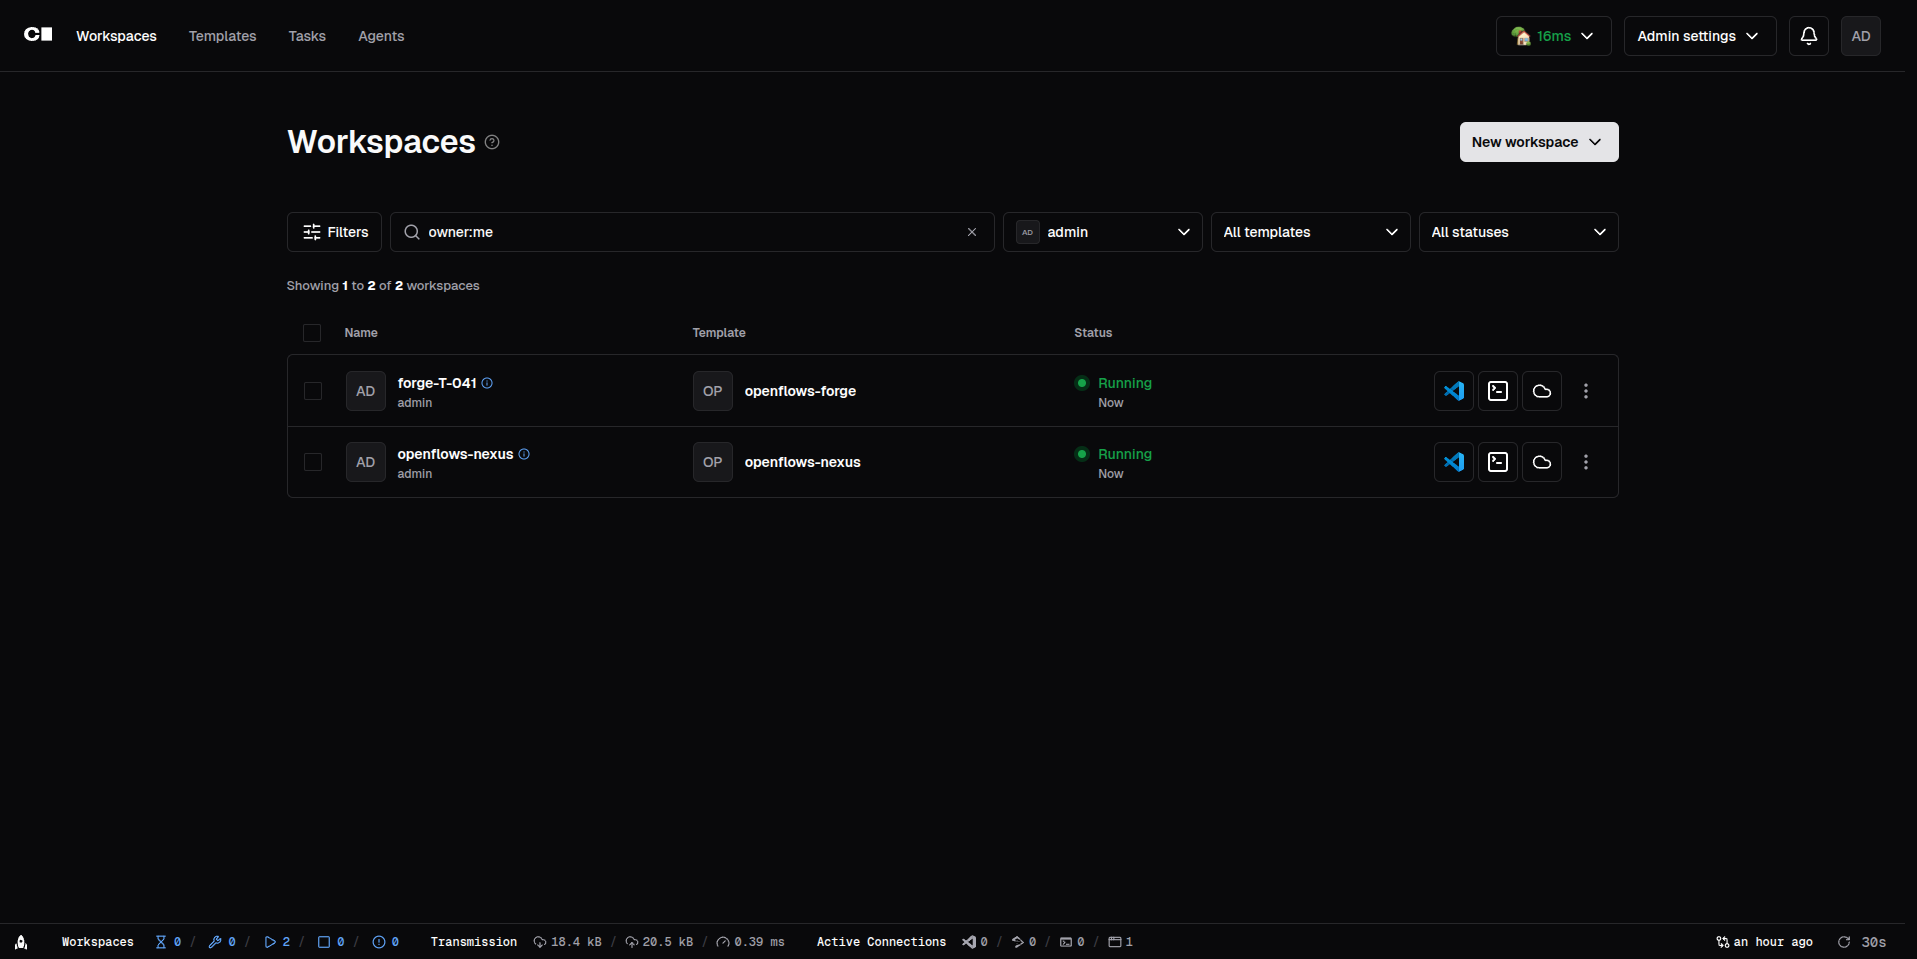
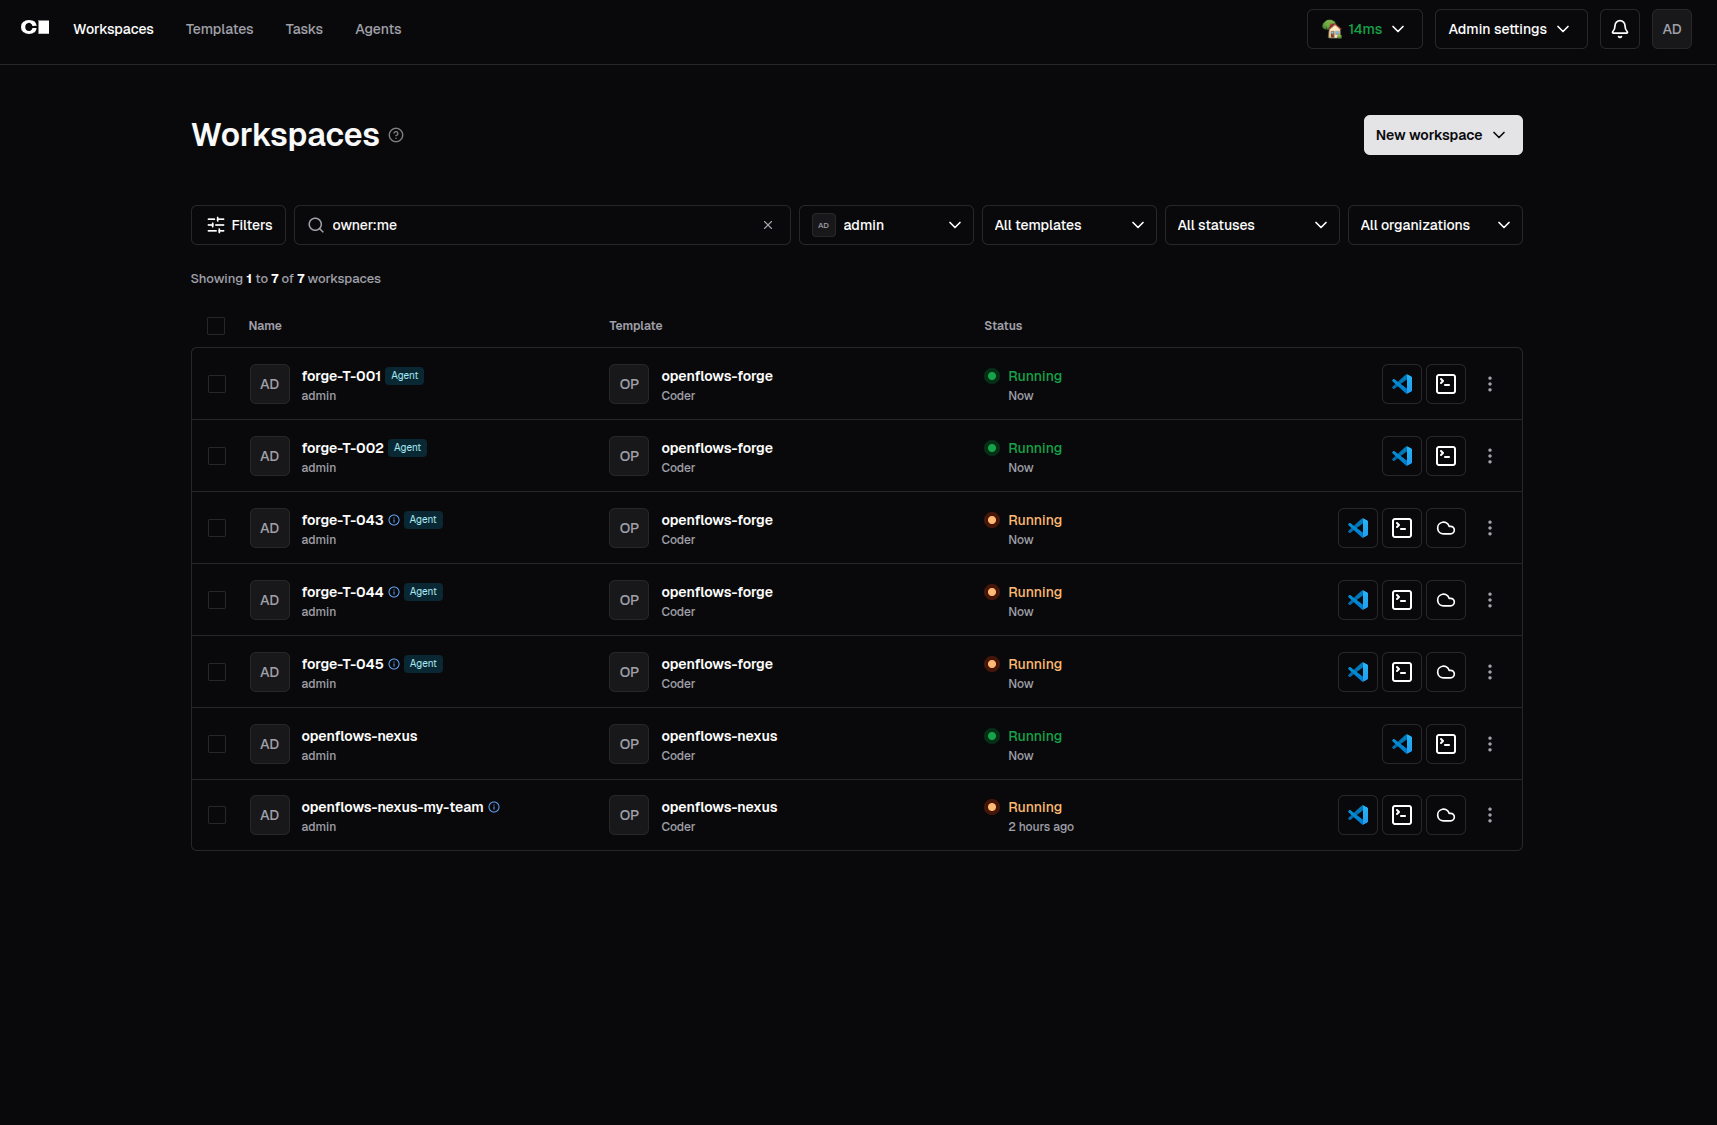
sidebar hacks

diff --git a/src/organisms/FeatureSteps/FeatureSteps.module.css b/src/organisms/FeatureSteps/FeatureSteps.module.css
@@ -1,7 +1,45 @@
 /* FeatureSteps - Coder.com numbered accordion */
 .section {
+  position: relative;
   padding-block: 120px;
   background: var(--color-parchment-canvas);
+}
+
+/* Side hatch decorations */
+.section::before,
+.section::after {
+  content: '';
+  position: absolute;
+  top: 0;
+  bottom: 0;
+  width: 24px;
+  background-color: #f8f7f3;
+  background-image: repeating-linear-gradient(
+    45deg,
+    #dcd7d3b3 0 1px,
+    #0000 1px 5px
+  );
+  pointer-events: none;
+  z-index: 1;
+}
+
+.section::before {
+  left: 0;
+}
+
+.section::after {
+  right: 0;
+}
+
+@media (max-width: 900px) {
+  .section {
+    padding-block: 80px;
+  }
+  
+  .section::before,
+  .section::after {
+    width: 16px;
+  }
 }
 
 .container {
@@ -40,7 +78,12 @@
   border-radius: var(--radius-xl);
   overflow: hidden;
   border: 1px solid var(--color-driftwood);
-  background: var(--color-fog);
+  background-color: #f8f7f3;
+  background-image: repeating-linear-gradient(
+    45deg,
+    #dcd7d3b3 0 1px,
+    #0000 1px 5px
+  );
   margin-inline: auto;
 }
 
@@ -49,10 +92,4 @@
   height: auto;
   display: block;
   object-fit: contain;
-}
-
-@media (max-width: 900px) {
-  .section {
-    padding-block: 80px;
-  }
 }

diff --git a/src/organisms/TrustBar/TrustBar.module.css b/src/organisms/TrustBar/TrustBar.module.css
@@ -1,9 +1,48 @@
-/* TrustBar - IZHUB: white bg to match nav treatment */
+/* TrustBar - IZHUB: hatch pattern background */
 .section {
+  position: relative;
   padding-block: 48px;
   border-top: 1px solid var(--color-fog);
   border-bottom: 1px solid var(--color-fog);
-  background: var(--color-bone);
+  background-color: #f8f7f3;
+  background-image: repeating-linear-gradient(
+    45deg,
+    #dcd7d3b3 0 1px,
+    #0000 1px 5px
+  );
+}
+
+/* Side hatch decorations */
+.section::before,
+.section::after {
+  content: '';
+  position: absolute;
+  top: 0;
+  bottom: 0;
+  width: 24px;
+  background-color: #f8f7f3;
+  background-image: repeating-linear-gradient(
+    45deg,
+    #dcd7d3b3 0 1px,
+    #0000 1px 5px
+  );
+  pointer-events: none;
+  z-index: 1;
+}
+
+.section::before {
+  left: 0;
+}
+
+.section::after {
+  right: 0;
+}
+
+@media (max-width: 768px) {
+  .section::before,
+  .section::after {
+    width: 16px;
+  }
 }
 
 .container {

diff --git a/src/organisms/FlowVisual/FlowVisual.module.css b/src/organisms/FlowVisual/FlowVisual.module.css
@@ -1,7 +1,12 @@
 /* FlowVisual - Coder.com Lottie/video placeholder */
 .section {
   padding-block: 120px;
-  background: var(--color-bg-elevated);
+  background-color: #f8f7f3;
+  background-image: repeating-linear-gradient(
+    45deg,
+    #dcd7d3b3 0 1px,
+    #0000 1px 5px
+  );
   border-top: 1px solid var(--color-driftwood);
   border-bottom: 1px solid var(--color-driftwood);
 }

diff --git a/src/organisms/UseCaseTabs/UseCaseTabs.module.css b/src/organisms/UseCaseTabs/UseCaseTabs.module.css
@@ -1,7 +1,12 @@
 /* UseCaseTabs - Coder.com rotating feature tabs */
 .section {
   padding-block: 120px;
-  background: var(--color-bg-elevated);
+  background-color: #f8f7f3;
+  background-image: repeating-linear-gradient(
+    45deg,
+    #dcd7d3b3 0 1px,
+    #0000 1px 5px
+  );
   border-top: 1px solid var(--color-driftwood);
   border-bottom: 1px solid var(--color-driftwood);
 }

diff --git a/src/styles/global.css b/src/styles/global.css
@@ -549,6 +549,16 @@ ol {
   box-shadow: inset 0 0 0 1px rgba(41, 40, 39, 0.78);
 }
 
+/* IZHUB hatch pattern styling — diagonal stripe texture */
+.izhub-suite-hatch {
+  background-color: #f8f7f3;
+  background-image: repeating-linear-gradient(
+    45deg,
+    #dcd7d3b3 0 1px,
+    #0000 1px 5px
+  );
+}
+
 .izhub-suite-tab:focus-visible {
   outline: 2px solid #353088;
 }

diff --git a/src/organisms/FAQ/FAQ.module.css b/src/organisms/FAQ/FAQ.module.css
@@ -2,7 +2,12 @@
 .section {
   padding-block: 120px;
   border-top: 1px solid var(--color-driftwood);
-  background: var(--color-parchment-canvas);
+  background-color: #f8f7f3;
+  background-image: repeating-linear-gradient(
+    45deg,
+    #dcd7d3b3 0 1px,
+    #0000 1px 5px
+  );
 }
 
 .container {

diff --git a/src/organisms/GetStartedBanner/GetStartedBanner.module.css b/src/organisms/GetStartedBanner/GetStartedBanner.module.css
@@ -13,7 +13,12 @@
 }
 
 .card {
-  background-color: var(--color-fog);
+  background-color: #f8f7f3;
+  background-image: repeating-linear-gradient(
+    45deg,
+    #dcd7d3b3 0 1px,
+    #0000 1px 5px
+  );
   border-radius: var(--radius-xl);
   padding: 80px 48px;
   display: flex;
